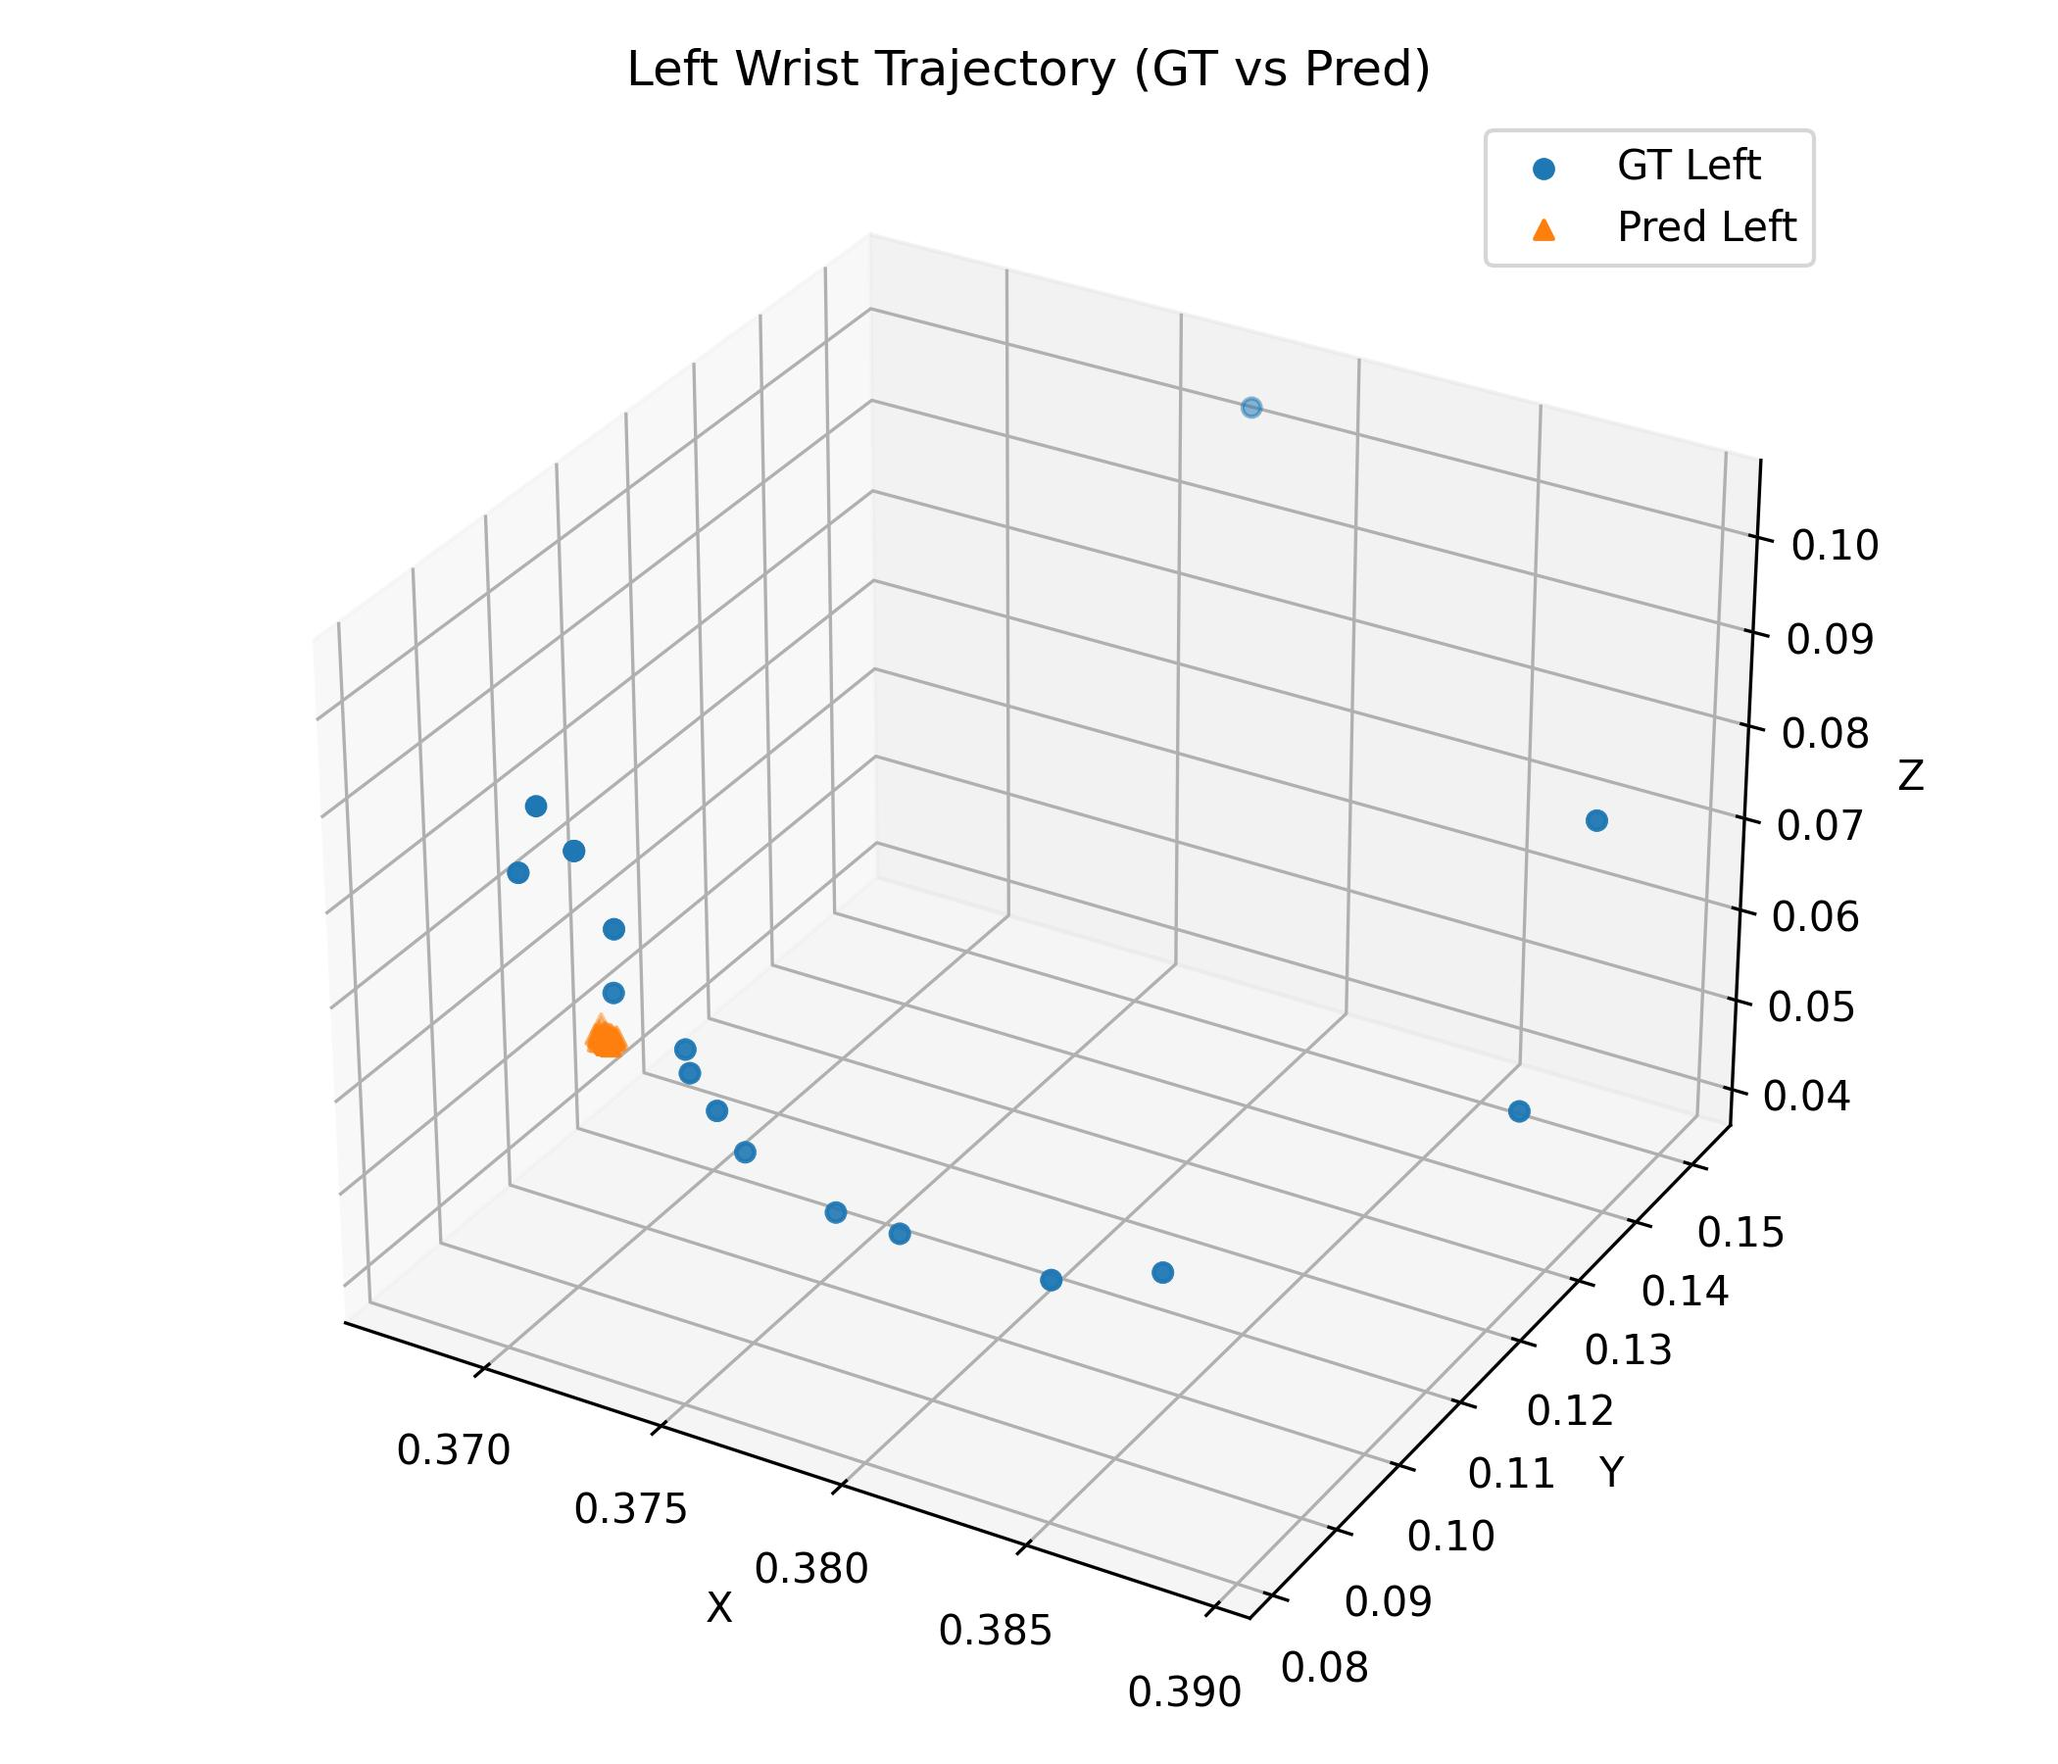
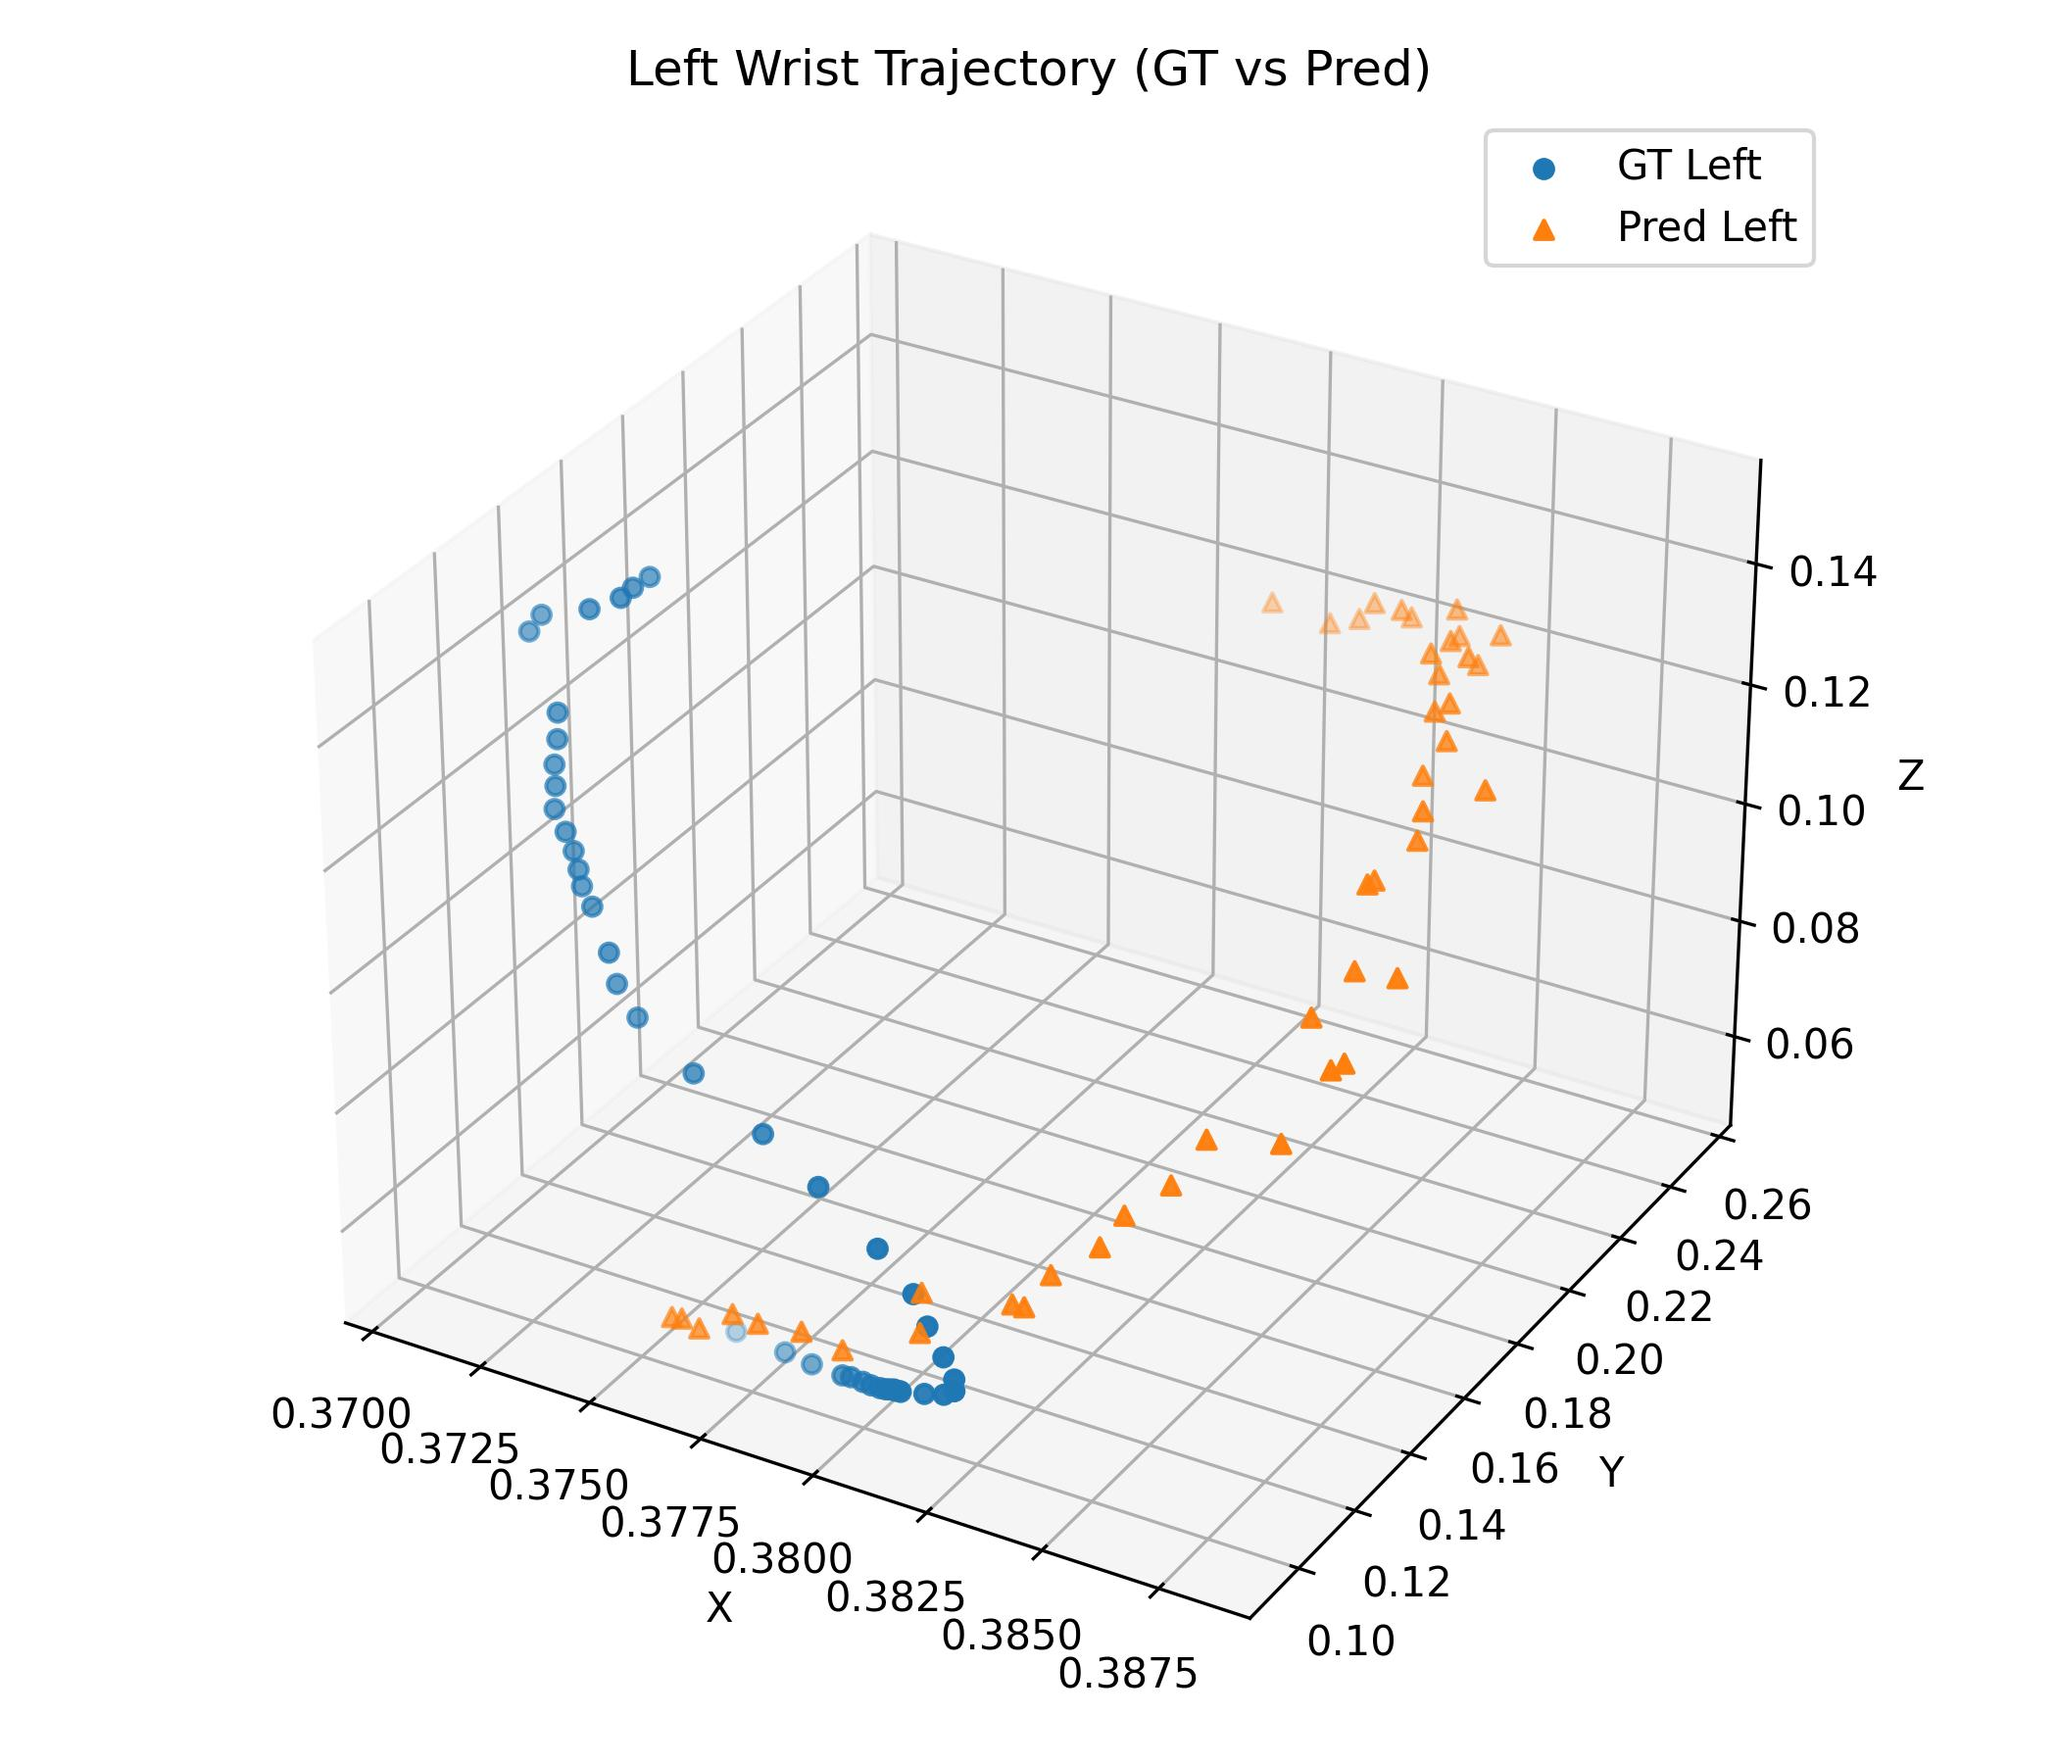
added normalization for qpos

diff --git a/norm_stats.py b/norm_stats.py
@@ -26,6 +26,7 @@ def compute_delta_action_norm_stats_from_dirs(
     norm_stats : dict with float32 numpy arrays
     """
     action_list = []
+    qpos_list = []    
 
     for demo_dir in ds.episode_dirs:
         csv_path = os.path.join(demo_dir, "ee_pos", "ee_poses_and_hands.csv")
@@ -38,8 +39,11 @@ def compute_delta_action_norm_stats_from_dirs(
 
         for s in range(T):
             anchor_vec   = ds._row_to_action(df.iloc[s])           # (A,)
+            qpos_list.append(anchor_vec.astype(np.float32))     # NEW
+
             left_anchor  = anchor_vec[0:3]
-            right_anchor = anchor_vec[9:12]
+            # TODO: restore these lines for bimanual
+            # right_anchor = anchor_vec[9:12] 
 
             end_ts = min(s + chunk_size * stride, T)               # exclusive
             for t in range(s, end_ts, stride):
@@ -47,23 +51,28 @@ def compute_delta_action_norm_stats_from_dirs(
 
                 # relative translation
                 row_vec[0:3]  -= left_anchor
-                row_vec[9:12] -= right_anchor
+                # TODO: restore these lines for bimanual
+                # row_vec[9:12] -= right_anchor
 
                 action_list.append(row_vec.astype(np.float32))
 
     if not action_list:
         raise ValueError("No actions collected — check dataset paths.")
 
-    actions_np   = np.vstack(action_list)          # (N_total, A)
-    action_mean  = actions_np.mean(axis=0)
-    action_std   = actions_np.std(axis=0, ddof=1)
-    action_std   = np.clip(action_std, a_min=eps, a_max=None)
+    actions_np   = np.vstack(action_list)   # (N_total, A)
+    action_mean  = actions_np.mean(axis=0).astype(np.float32)
+    action_std   = np.clip(actions_np.std(axis=0, ddof=1), a_min=eps, a_max=None).astype(np.float32)
+
+    # NEW: qpos stats
+    qpos_np    = np.vstack(qpos_list)       # (N_qpos, A)
+    qpos_mean  = qpos_np.mean(axis=0).astype(np.float32)
+    qpos_std   = np.clip(qpos_np.std(axis=0, ddof=1), a_min=eps, a_max=None).astype(np.float32)
 
     norm_stats = {
-        "action_mean": action_mean.astype(np.float32),
-        "action_std":  action_std.astype(np.float32),
-        "qpos_mean":   np.zeros_like(action_mean, dtype=np.float32),
-        "qpos_std":    np.ones_like(action_mean,  dtype=np.float32),
+        "action_mean": action_mean,
+        "action_std":  action_std,
+        "qpos_mean":   qpos_mean,
+        "qpos_std":    qpos_std,
     }
 
     # ---- optional save ----
@@ -84,14 +93,14 @@ def compute_delta_action_norm_stats_from_dirs(
 
     # ---- optional literal ----
     if print_literal:
-        am, sd = norm_stats["action_mean"].tolist(), norm_stats["action_std"].tolist()
-        qm, qs = norm_stats["qpos_mean"].tolist(),  norm_stats["qpos_std"].tolist()
-        print(f"{var_name} = {{")
-        print(f"    'action_mean': np.array({am}, dtype=np.float32),")
-        print(f"    'action_std':  np.array({sd}, dtype=np.float32),")
-        print(f"    'qpos_mean':   np.array({qm}, dtype=np.float32),")
-        print(f"    'qpos_std':    np.array({qs}, dtype=np.float32),")
-        print("}")
+            am, sd = norm_stats["action_mean"].tolist(), norm_stats["action_std"].tolist()
+            qm, qs = norm_stats["qpos_mean"].tolist(),  norm_stats["qpos_std"].tolist()
+            print(f"{var_name} = {{")
+            print(f"    'action_mean': np.array({am}, dtype=np.float32),")
+            print(f"    'action_std':  np.array({sd}, dtype=np.float32),")
+            print(f"    'qpos_mean':   np.array({qm}, dtype=np.float32),")
+            print(f"    'qpos_std':    np.array({qs}, dtype=np.float32),")
+            print("}")
 
     return norm_stats
 

diff --git a/galaxea_eval_policy_relative_actions_pickup_cube_tesollo.py b/galaxea_eval_policy_relative_actions_pickup_cube_tesollo.py
@@ -23,9 +23,11 @@ import matplotlib.pyplot as plt
 from mpl_toolkits.mplot3d import Axes3D   # noqa: F401  ̶k̶e̶e̶p̶s̶ ̶3̶D̶ ̶p̶r̶o̶j̶e̶c̶t̶i̶o̶n̶ ̶r̶e̶g̶i̶s̶t̶e̶r̶e̶d̶
 from scipy.spatial.transform import Rotation as R
 
-image_path_l = "/iris/projects/humanoid/dataset/tesollo_dataset/pick_cube/Demo60/left/000150.jpg"
-image_path_r = "/iris/projects/humanoid/dataset/tesollo_dataset/pick_cube/Demo60/right/000150.jpg"
-csv_path = "/iris/projects/humanoid/dataset/tesollo_dataset/pick_cube/Demo60/ee_pos/ee_poses_and_hands.csv"
+demo = 20
+idx = 150
+image_path_l = f"/iris/projects/humanoid/dataset/tesollo_dataset/pick_cube/Demo{demo}/left/000{idx}.jpg"
+image_path_r = f"/iris/projects/humanoid/dataset/tesollo_dataset/pick_cube/Demo{demo}/right/000{idx}.jpg"
+csv_path = f"/iris/projects/humanoid/dataset/tesollo_dataset/pick_cube/Demo{demo}/ee_pos/ee_poses_and_hands.csv"
 # Hard-coded frame index from the filename (000150.jpg -> 150)
 TS = int(os.path.splitext(os.path.basename(image_path_l))[0])
 norm_stats = np.load("norm_stats_galaxea_delta.npz")
@@ -119,9 +121,10 @@ def plot_left_wrist_trajectory(pred_actions: torch.Tensor,
     # ground-truth left positions from CSV, aligned to the same stride (step=2)
     df = pd.read_csv(csv_path)
     T = dleft.shape[0]
-    end = min(ts + 2 * T, len(df))
-    gt_rows = df.iloc[ts:end:2]  # <= length may be <= T if we hit the end
+    end = min(ts + T, len(df))   # only advance T steps, not 2*T
+    gt_rows = df.iloc[ts:end]
     gt_left = gt_rows[["left_pos_x", "left_pos_y", "left_pos_z"]].to_numpy()
+    print(gt_left)
 
     # base left wrist pose at ts
     base_left = df.iloc[ts][["left_pos_x", "left_pos_y", "left_pos_z"]].to_numpy(dtype=float)
@@ -139,6 +142,7 @@ def plot_left_wrist_trajectory(pred_actions: torch.Tensor,
     ax = fig.add_subplot(111, projection='3d')
     ax.set_title("Left Wrist Trajectory (GT vs Pred)")
     ax.scatter(gt_left[:, 0], gt_left[:, 1], gt_left[:, 2], label="GT Left", s=20)
+    print(gt_left.shape)
     ax.scatter(pred_left_abs[:, 0], pred_left_abs[:, 1], pred_left_abs[:, 2], label="Pred Left", marker='^', s=20)
     ax.set_xlabel("X"); ax.set_ylabel("Y"); ax.set_zlabel("Z")
     ax.legend()
@@ -172,6 +176,12 @@ def eval_act(config, ckpt_name, save_episode=True):
         # See this function (build_left_qpos_from_csv()) to see how to build a 6d rot, very simple 
         qpos_numpy = build_left_qpos_from_csv(csv_path, TS)
         qpos = torch.from_numpy(qpos_numpy).float().cuda().unsqueeze(0)
+        # Note, qpos also requires its own normalization now
+        qpos_mean = torch.as_tensor(norm_stats["qpos_mean"], device=qpos.device, dtype=qpos.dtype)
+        qpos_std  = torch.as_tensor(norm_stats["qpos_std"],  device=qpos.device, dtype=qpos.dtype)
+        print(qpos.shape, qpos_mean.shape)
+        qpos = (qpos - qpos_mean) / qpos_std
+
 
         all_actions = policy(qpos, curr_image)
 

diff --git a/galaxea_dataset_pick_cube.py b/galaxea_dataset_pick_cube.py
@@ -132,6 +132,7 @@ class GalaxeaDataset(torch.utils.data.Dataset):
         image_data = image_data / 255.0
         if self.normalize:
             action_data = (action_data - norm_stats["action_mean"]) / norm_stats["action_std"]
+            qpos_data   = (qpos_data   - norm_stats["qpos_mean"])   / norm_stats["qpos_std"]  # NEW
 
         return image_data, qpos_data, action_data, is_pad
 ##################################################################
@@ -146,13 +147,14 @@ class GalaxeaDataset(torch.utils.data.Dataset):
 # # Create dataset (relative positions, no normalization yet)
 # ds = GalaxeaDataset(dataset_dir=dataset_dir, chunk_size=45, apply_data_aug = True, normalize=False)
 
+# # TODO!!!!!!! Check that normalization is implemented as you want it!!! right now it's implemented as a single arm, not bimanual
 # from norm_stats import compute_delta_action_norm_stats_from_dirs
 # compute_delta_action_norm_stats_from_dirs(
 #     ds,
 #     chunk_size=45,
-#     # stride=2,
+#     stride=2,
 #     out_path="norm_stats_galaxea_delta.npz",
-#     print_literal=False
+#     print_literal=True
 # )
 
 #################################################################
